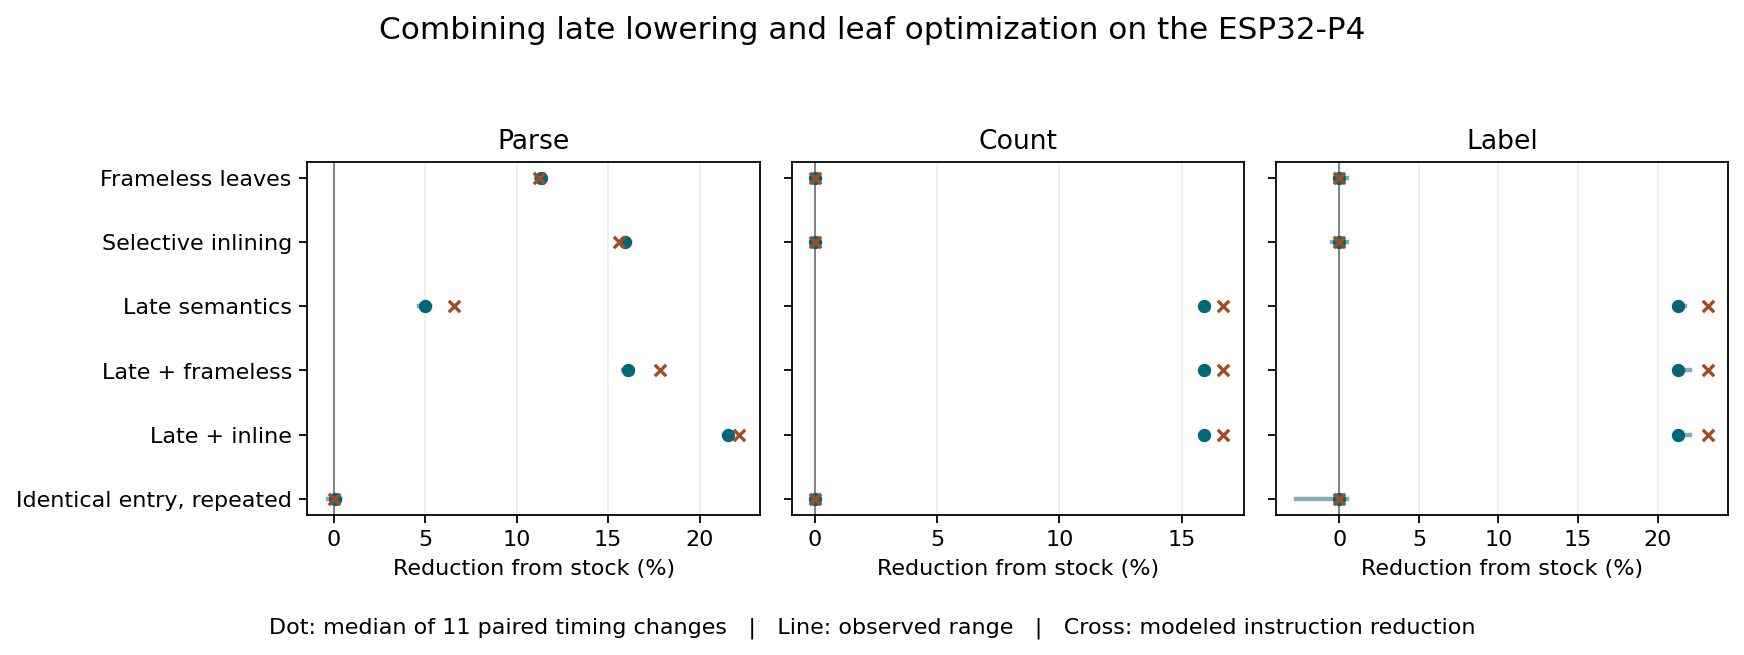
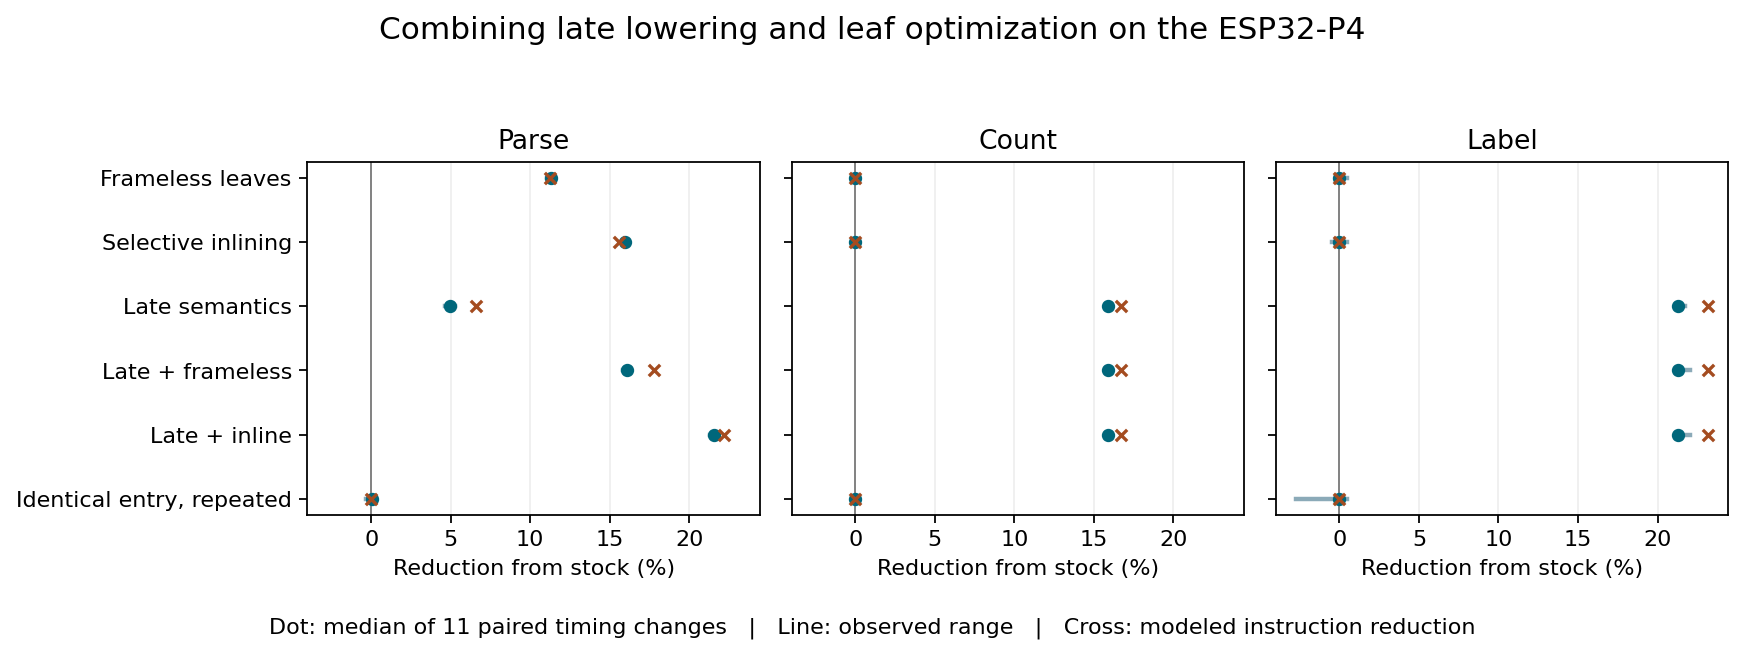
Close the six-study lab and record verified vault and reMarkable publication

diff --git a/ttmp/2026/11/20/PICOCALC-NATIVE-WAVE--six-parallel-experiments-in-handheld-compiler-construction/scripts/director/08-summarize.py b/ttmp/2026/11/20/PICOCALC-NATIVE-WAVE--six-parallel-experiments-in-handheld-compiler-construction/scripts/director/08-summarize.py
@@ -42,7 +42,7 @@ labels = {
     "late-stock":"Late semantics", "late-leaf":"Late + frameless", "late-inline":"Late + inline"
 }
 display = [labels[arm["arm"]] for arm in arms[1:]]
-fig, axes = plt.subplots(1, 3, figsize=(11, 4), sharey=True)
+fig, axes = plt.subplots(1, 3, figsize=(11, 4), sharex=True, sharey=True)
 for axis, endpoint in zip(axes, ("parse", "count", "label")):
     rows = [r for r in summary if r["endpoint"] == endpoint][1:]
     for y, row in enumerate(rows):

diff --git a/ttmp/2026/11/20/PICOCALC-NATIVE-WAVE--six-parallel-experiments-in-handheld-compiler-construction/reference/01-director-investigation-diary.md b/ttmp/2026/11/20/PICOCALC-NATIVE-WAVE--six-parallel-experiments-in-handheld-compiler-construction/reference/01-director-investigation-diary.md
@@ -315,3 +315,51 @@ Inspect reference/20-independent-scientific-review.md and the balanced original 
 ### Technical details
 
 The second physical matrix uses early/stock as the paired baseline, 11 blocks, 48 replays per block, one 360 MHz P4 core. All complete edit builds were checked byte for byte against the clean linked ELF. Their edit timer excludes cache commit and output comparison.
+
+## Step 7: Verify physical recovery, publish the lab edition and close the ticket
+
+All six Opus High research leads delivered their designs and resulting articles. Their operators finished the implementation, experiments and diaries. The independent Astra reviewer rechecked the two final matrices. I verified the final ordinary firmware state, published all seven articles as one coherent edition and checked the remote contents.
+
+### Prompt Context
+
+**User prompt:** See Step 1. **Assistant interpretation:** Finish the research through publication and leave a reproducible record. **Inferred user intent:** Make the material available to newcomers in the reading vault and preserve the scientific trail in the repository. **Code and evidence commits:** e787cfe for crossed hardware results; 03e0306 for the independent confirmation; 786f2b4 for independent final review.
+
+### What I did
+
+Verified the fifth window recorded native correctness, all 165 directed native timings, all twelve compiler observations and its aggregate completion marker. Read-back matched the published application and partition. The eight expected worlds started and the native painter installed with zero rejects. Kept the earlier incomplete run separately. Prepared the final articles, two charts, cross-links and per-file hashes; committed and pushed precisely that edition to the go-go-parc vault.
+
+### Why
+
+Publishing both the failed gate and the qualified performance controls lets the reader reconstruct adoption decisions. A remote revision and the file hashes identify the exact series delivered. The P4's last state matters to the next person opening an app.
+
+### What worked
+
+Seven articles and two figures passed local link validation and remote Git verification at go-go-parc main 48781a06bfe4663816887fa991035b71069630ee. I checked each committed blob against the publication manifest. The six finalized source hashes still match the reMarkable book that was verified in the cloud directory.
+
+### What didn't work
+
+The first long cold-compiler capture timed out with one observation missing. The separate confirming boot completed after its shorter plan, while the original 59/60 receipt remains unchanged. No later sample was inserted into the original block.
+
+### What I learned
+
+The strongest product candidates here are preserving two text operations until RV32 lowering and streaming frameless leaves. A separate build-cache policy is beneficial for structural edits but exceeded its body-edit allowance. Physical operation-level gains still require ordinary PSRAM-loaded validation.
+
+### What was tricky to build
+
+The published notes use vault-relative links to companion studies and figures. References to implementation and evidence resolve to the corresponding tracked source paths. The publisher restricted the commit to the nine expected documents and assets.
+
+### What warrants a second pair of eyes
+
+The final edition distinguishes early versus late operation *and* instruction selection, host versus loaded-world execution, and fresh compiler engines versus entire boots. Any later product claim should use the documented production-path measurements.
+
+### What should be done in the future
+
+Use the release trial described in the synthesis. The six research assignments and the requested publications are complete.
+
+### Code review instructions
+
+Inspect various/director/publication.json, the seven analysis files and the independent memorandum. Use scripts/director/12-publish-vault.py with a fresh local staging directory to compare the generated publication manifest. Use docmgr doctor --ticket PICOCALC-NATIVE-WAVE --stale-after 365 to validate the ticket.
+
+### Technical details
+
+Vault commit 48781a06bfe4663816887fa991035b71069630ee. reMarkable book: PicoCalc Native Compiler Wave - Six Study Designs, under /ai/2026/11/20/PICOCALC-NATIVE-WAVE. Final ordinary application SHA-256 134f3a249589a860a1a85311e361498a9e6ba4f14bef34ca2397ea26ca86ebc1. Final partition SHA-256 72721dc3ce2597504dc568023e778100401a308455fea40d174d282386571d30.

diff --git a/ttmp/2026/11/20/PICOCALC-NATIVE-WAVE--six-parallel-experiments-in-handheld-compiler-construction/analysis/07-what-a-handheld-compiler-should-remember.md b/ttmp/2026/11/20/PICOCALC-NATIVE-WAVE--six-parallel-experiments-in-handheld-compiler-construction/analysis/07-what-a-handheld-compiler-should-remember.md
@@ -1,7 +1,7 @@
 ---
 Title: What a handheld compiler should remember
 Ticket: PICOCALC-NATIVE-WAVE
-Status: active
+Status: complete
 Topics:
     - picocalc
     - compiler
@@ -89,7 +89,7 @@ Does late lowering also speed the compiler itself? A dedicated firmware command 
 | Editor | 4.545 s | 4.164 s | 8.7% | 2,574,214 B | 2,496,368 B |
 | Chess | 5.342 s | 3.038 s | 43.0% | 3,185,084 B | 1,948,022 B |
 
-The table uses the first four complete six-arm blocks per app. A host collection timeout cut off the final Editor sample in the fifth block. The researchers preserved 59 of 60 planned compile observations and reported the balanced comparison separately. Both stock and all-late finished all five pairs in both apps. Using those five pairs gives 9.03% for Editor and 43.09% for Chess, close to the balanced four-block results. For Chess, the drop of about 1.24 million bytes in peak JavaScript allocation is consistent with the compiler constructing and consuming fewer primitive operations. The peak counts live bytes seen by the QuickJS allocator. The separate output allocation and the rest of the firmware heap lie outside that number. Site-level allocation and phase timing would be needed to apportion the saving between operand creation, garbage collection and instruction emission. Late lowering also changes the instructions selected for an operation. This comparison establishes the effect of that combination. A separate arm that recognizes the same sequences after early expansion would test how much retaining their identity contributes. [Raw first run](../various/01-bounds/physical-first.json) · [Balanced block summary](../various/01-bounds/physical-first-summary.json)
+The table uses the first four complete six-arm blocks per app. A host collection timeout cut off the final Editor sample in the fifth block. The researchers preserved 59 of 60 planned compile observations and reported the balanced comparison separately. A separate confirmation boot completed all twelve planned compile observations and its explicit native correctness check. Chess measured 5.404 s stock and 3.067 s all-late. Editor measured 4.549 s and 4.140 s. These confirmation observations stand separately from the first run. Both stock and all-late finished all five pairs in both apps during the first run. Using those five pairs gives 9.03% for Editor and 43.09% for Chess, close to the balanced four-block results. For Chess, the drop of about 1.24 million bytes in peak JavaScript allocation is consistent with the compiler constructing and consuming fewer primitive operations. The peak counts live bytes seen by the QuickJS allocator. The separate output allocation and the rest of the firmware heap lie outside that number. Site-level allocation and phase timing would be needed to apportion the saving between operand creation, garbage collection and instruction emission. Late lowering also changes the instructions selected for an operation. This comparison establishes the effect of that combination. A separate arm that recognizes the same sequences after early expansion would test how much retaining their identity contributes. [Raw first run](../various/01-bounds/physical-first.json) · [Balanced block summary](../various/01-bounds/physical-first-summary.json) · [Independent confirmation boot](../various/01-bounds/physical-confirmation.json)
 
 ## When selecting an analysis costs the only useful result
 

diff --git a/ttmp/2026/11/20/PICOCALC-NATIVE-WAVE--six-parallel-experiments-in-handheld-compiler-construction/index.md b/ttmp/2026/11/20/PICOCALC-NATIVE-WAVE--six-parallel-experiments-in-handheld-compiler-construction/index.md
@@ -1,7 +1,7 @@
 ---
 Title: Six parallel experiments in handheld compiler construction
 Ticket: PICOCALC-NATIVE-WAVE
-Status: active
+Status: complete
 Topics:
     - picocalc
     - compiler
@@ -17,8 +17,8 @@ RelatedFiles:
     - Path: repo://ttmp/2026/11/20/PICOCALC-NATIVE-WAVE--six-parallel-experiments-in-handheld-compiler-construction/scripts/director/10-replay-host.sh
       Note: Reproduces the independent held-out treatments and instruction counts.
 ExternalSources: []
-Summary: ""
-LastUpdated: 2026-11-20T18:54:30.271263216-05:00
+Summary: Six independently led compiler experiments, their P4 measurements and the director’s release recommendations.
+LastUpdated: 2026-11-20T19:39:10.214149511-05:00
 WhatFor: ""
 WhenToUse: ""
 ---
@@ -52,6 +52,8 @@ Start with [What a handheld compiler should remember](analysis/07-what-a-handhel
 | Buffer lifetimes | [Borrowed values across turns](design-doc/06-infer-turn-lifetime-parameters.md) | [Inferred continuation lifetimes](analysis/06-turn-lifetime-inference.md) | [Investigation](reference/16-turn-lifetime-diary.md) |
 
 The [six-guide reMarkable book](various/director/remarkable.json) is filed under `/ai/2026/11/20/PICOCALC-NATIVE-WAVE`. The [first physical matrix](various/director/paired-results.json) measures the guest after compilation. The [balanced fresh-compiler comparison](various/01-bounds/physical-first-summary.json) measures time spent producing a complete native world.
+
+The [published vault collection](https://github.com/go-go-golems/go-go-parc/commit/48781a06bfe4663816887fa991035b71069630ee) contains all seven articles and both performance figures. The [publication manifest](various/director/publication.json) records their hashes and the verified remote revision. The final device receipt records the restored release application and partition, eight native worlds, and a successfully installed painter.
 
 ## Shared evaluation
 

diff --git a/ttmp/2026/11/20/PICOCALC-NATIVE-WAVE--six-parallel-experiments-in-handheld-compiler-construction/tasks.md b/ttmp/2026/11/20/PICOCALC-NATIVE-WAVE--six-parallel-experiments-in-handheld-compiler-construction/tasks.md
@@ -2,10 +2,10 @@
 
 ## TODO
 - [x] Freeze an independent scored workload and record the common control. <!-- t:l2l3 -->
-- [ ] Study 1: test streaming admission of bounded proofs against fixed-budget controls. <!-- t:kid4 -->
-- [ ] Study 2: compare early expansion with retaining semantic operations until lowering. <!-- t:ie3r -->
+- [x] Study 1: test streaming admission of bounded proofs against fixed-budget controls. <!-- t:kid4 -->
+- [x] Study 2: compare early expansion with retaining semantic operations until lowering. <!-- t:ie3r -->
 - [x] Study 3: measure leaf frames and selective inlining on generated code. <!-- t:kwkq -->
 - [x] Study 4: revalidate native fragments after signature, record and data-layout edits. <!-- t:9ykm -->
 - [x] Study 5: independently check a native stack-use certificate and conservative rejection. <!-- t:s18j -->
 - [x] Study 6: validate inferred turn lifetimes against explicit contracts and known outcomes. <!-- t:v8oi -->
-- [ ] Independently replay decisions, publish seven reports to go-go-parc, and deliver the designs to reMarkable. <!-- t:cive -->
+- [x] Independently replay decisions, publish seven reports to go-go-parc, and deliver the designs to reMarkable. <!-- t:cive -->

diff --git a/ttmp/2026/11/20/PICOCALC-NATIVE-WAVE--six-parallel-experiments-in-handheld-compiler-construction/changelog.md b/ttmp/2026/11/20/PICOCALC-NATIVE-WAVE--six-parallel-experiments-in-handheld-compiler-construction/changelog.md
@@ -3,3 +3,7 @@
 ## 2026-11-20
 
 - Initial workspace created
+
+## 2026-11-20
+
+Completed six Opus High studies, audited both physical comparison matrices, restored the qualified device, delivered the design book to reMarkable and published seven articles with two figures at go-go-parc 48781a0.
